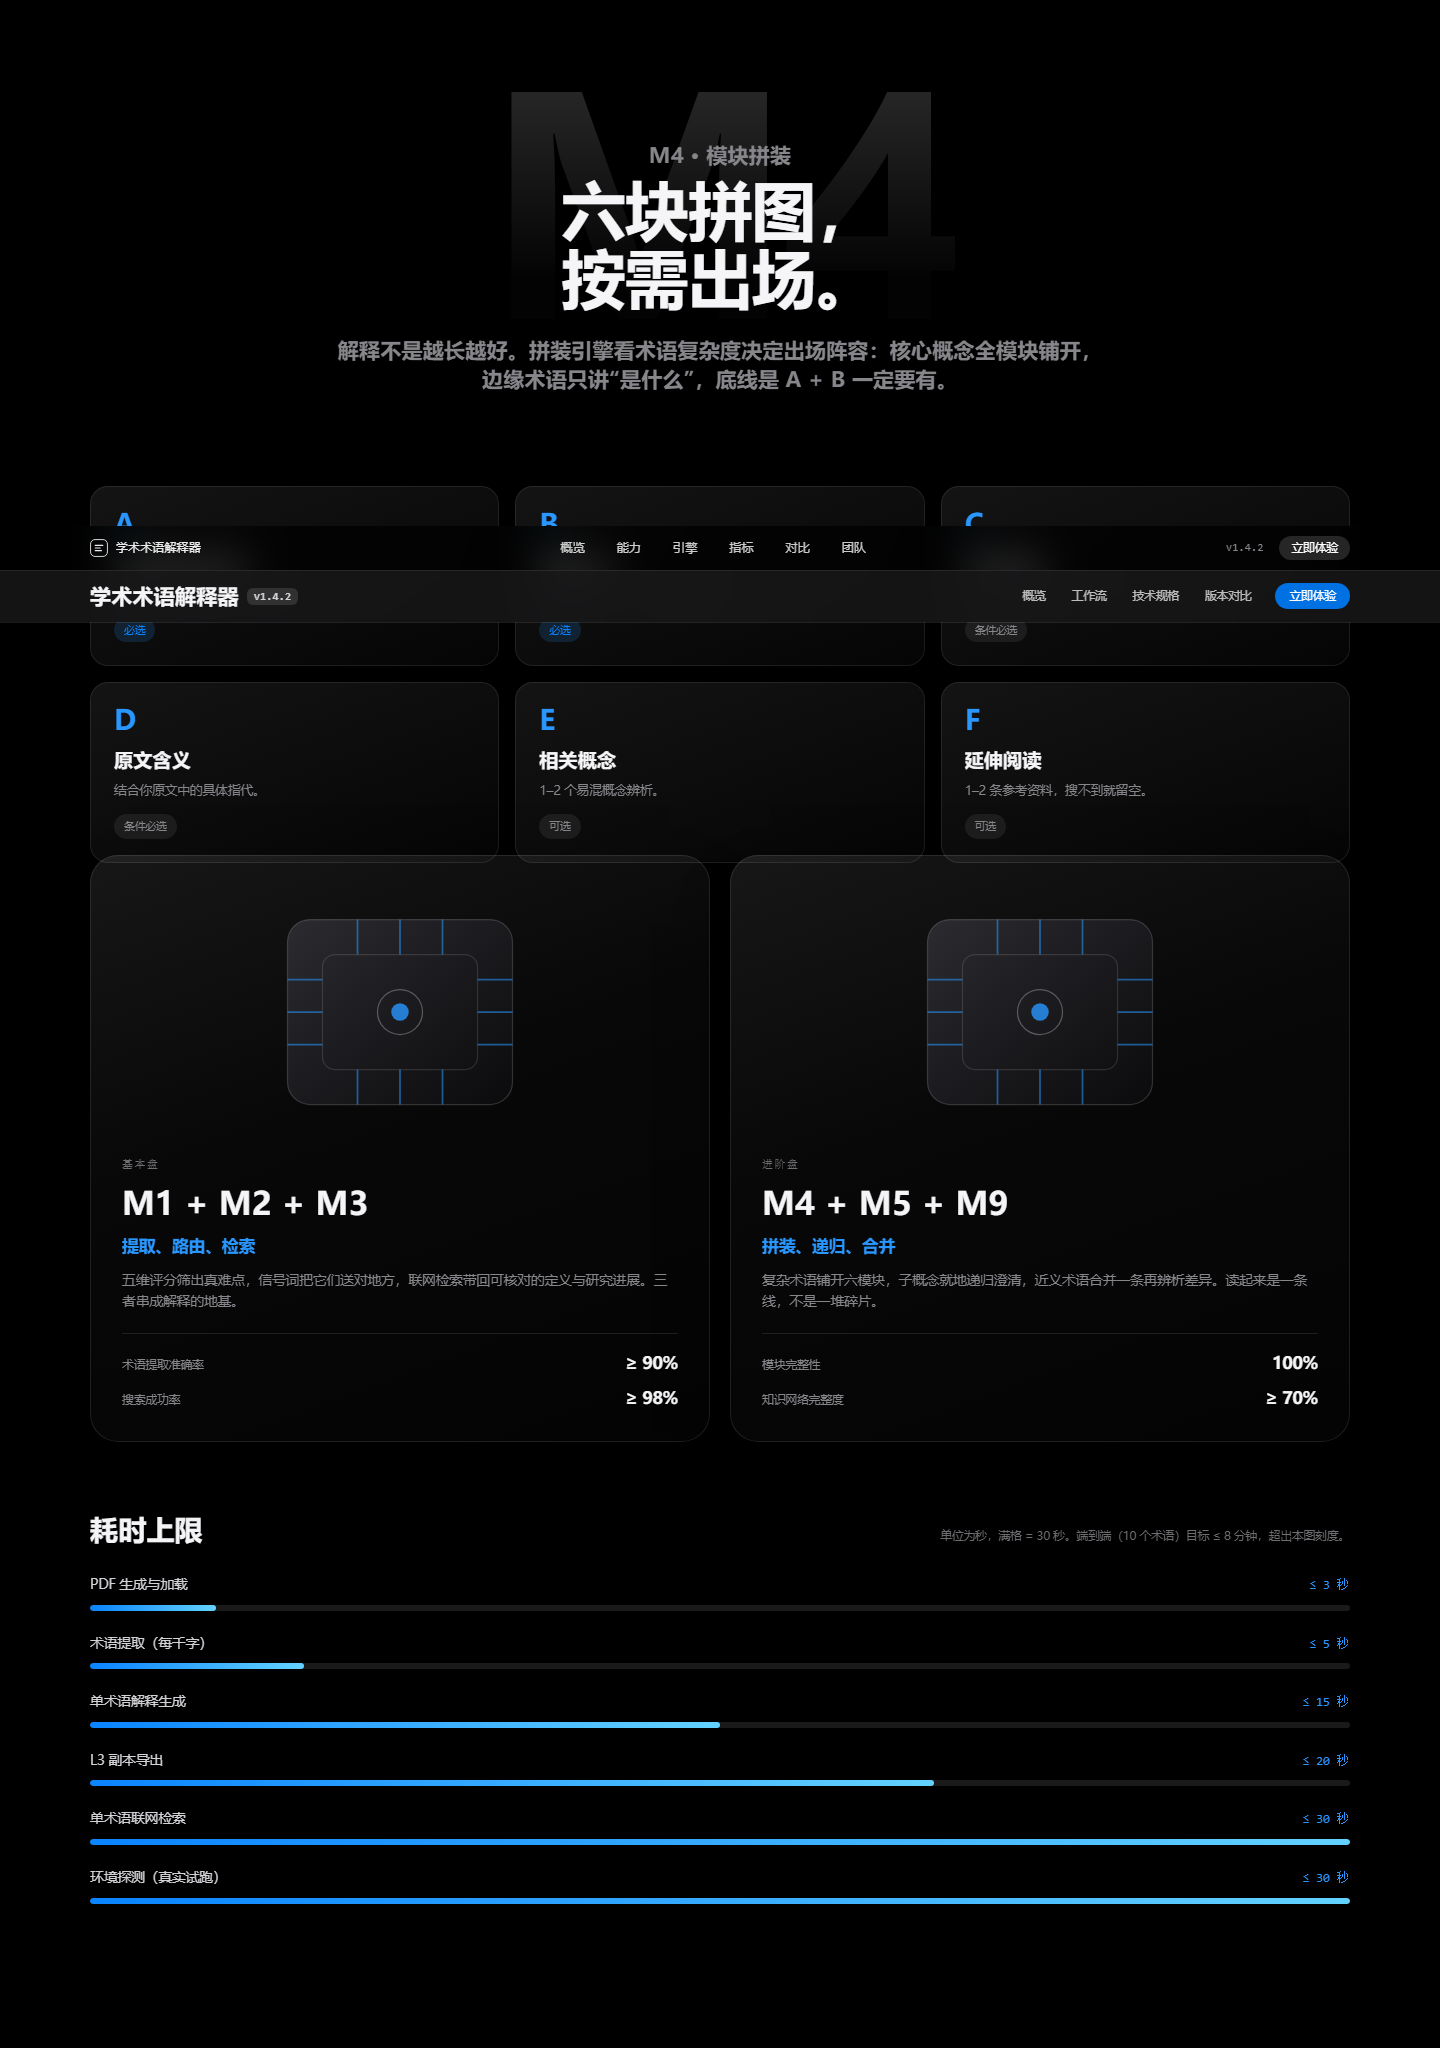
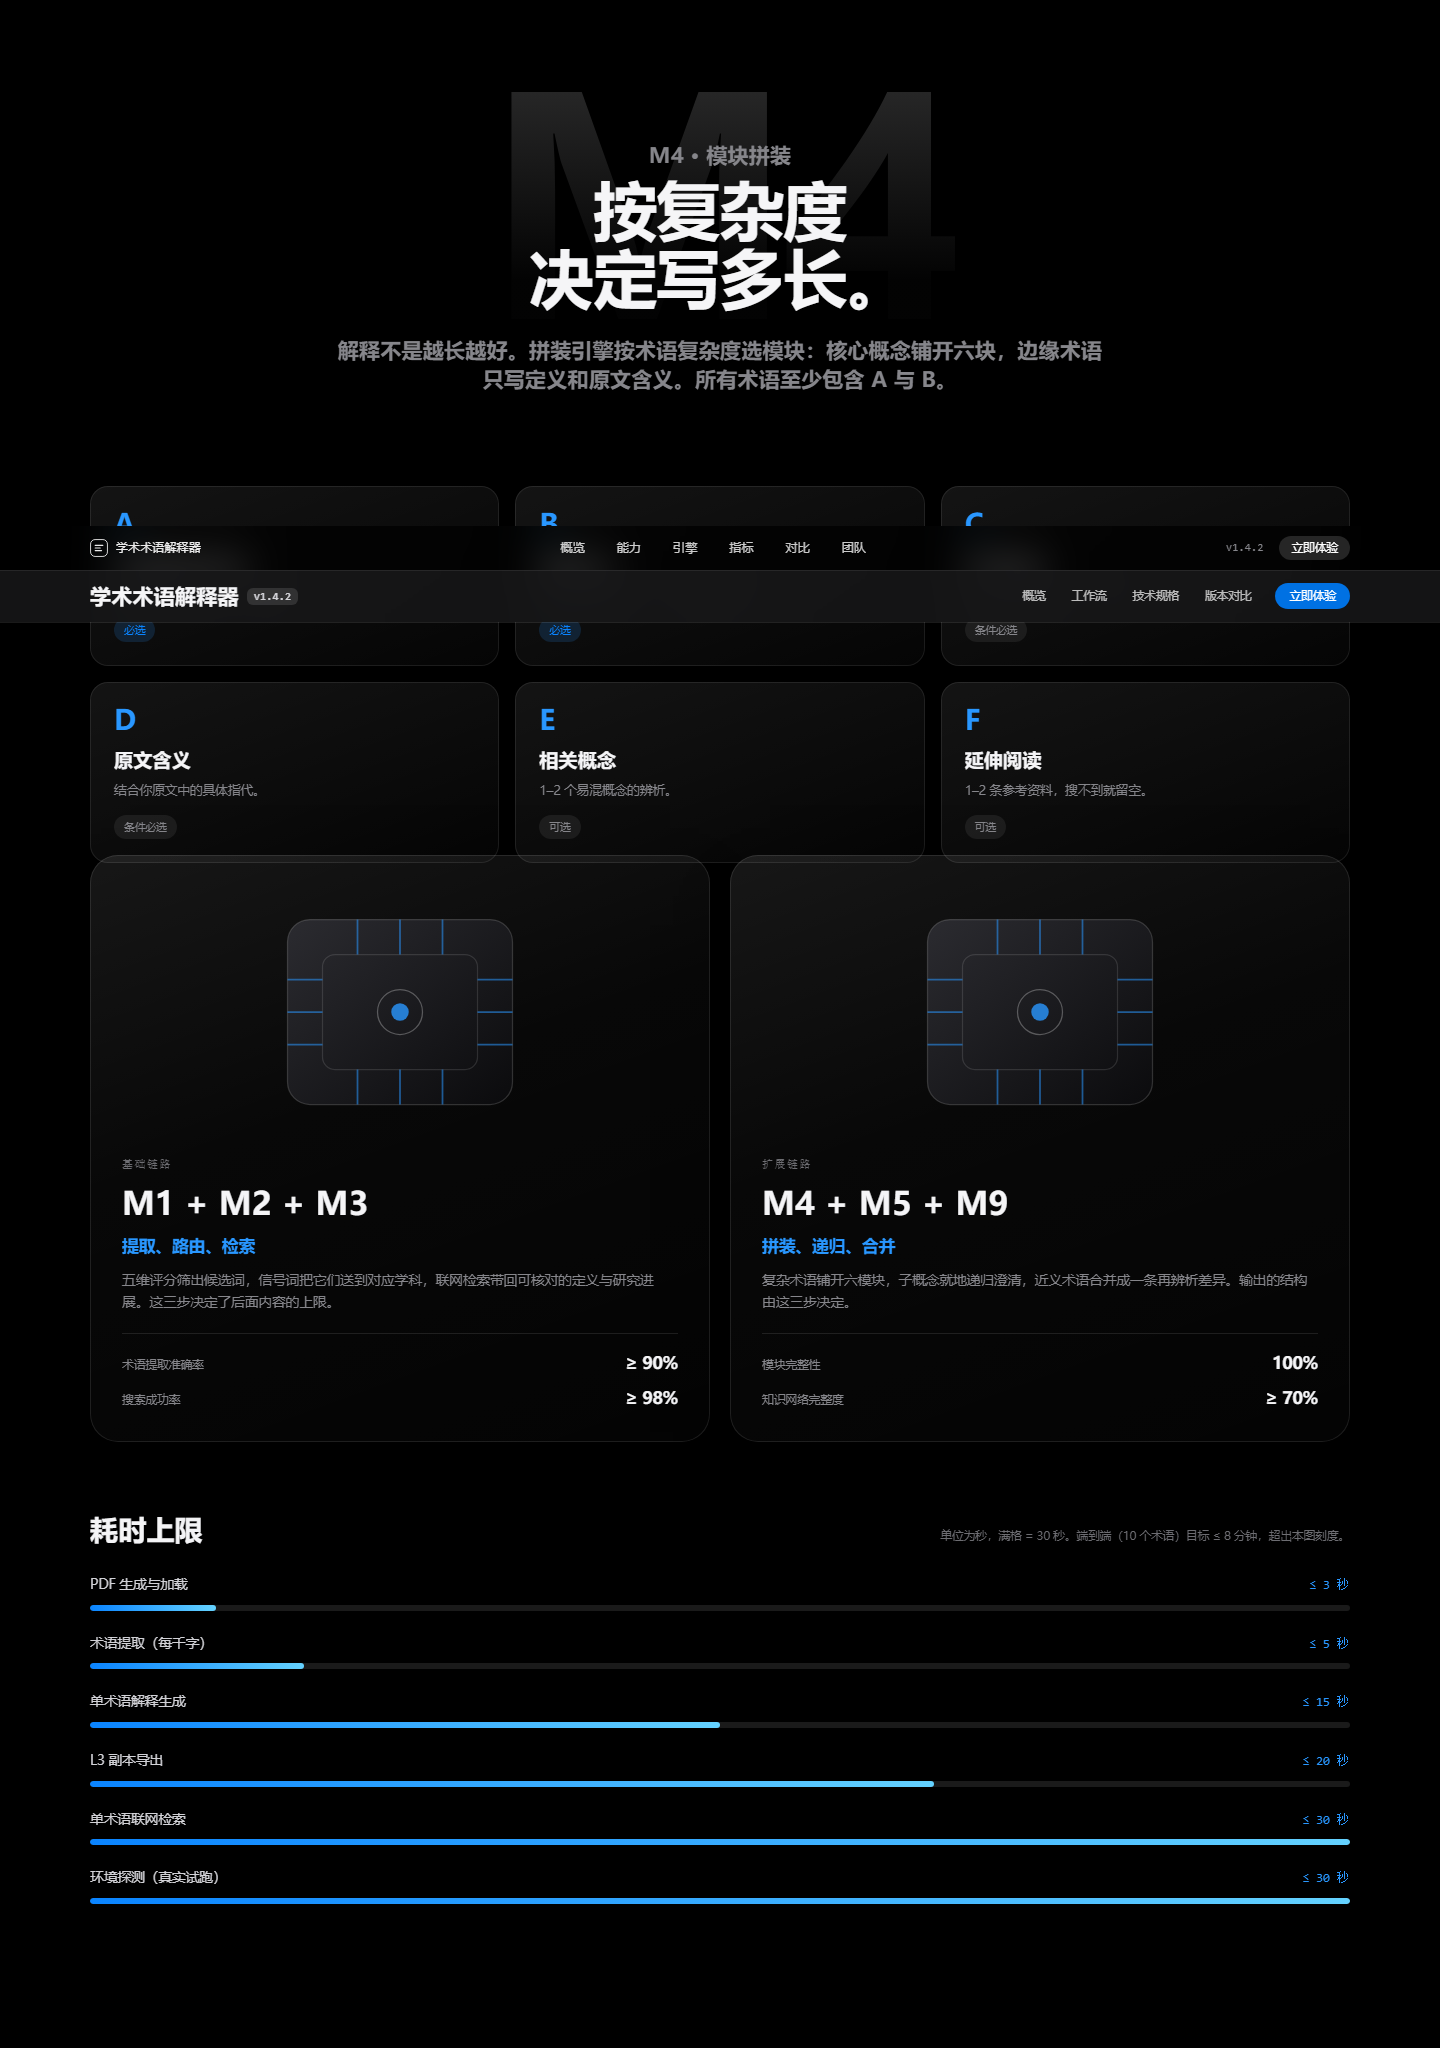
docs: 更新 README 与页面预览截图

diff --git a/README.md b/README.md
@@ -113,39 +113,25 @@ web/
 
 ## 内容来源
 
-- 文案指标来自《学术术语解释器 · 产品技术文档 v2.0》与《作品演示2.pptx》
+- 文案与指标来自《学术术语解释器 · 产品技术文档 v2.0》与《作品演示2.pptx》
 - 所有数字均为文档中定义的**目标值**（FI / PI / QI 编号），非实测结果，页脚已注明
 - 页面不含 Apple 商标、产品图或文案；版式参考仅用于竞赛展示
+- 本项目**未开源**，页面也不作任何开源或免费分发的表述
 
 ---
 
 ## 已知取舍
 
 1. **字体**：参考页使用系统字体 SF Pro / PingFang SC。本站沿用同样字体栈，在 macOS 上即为原字体；Windows 回退到 Microsoft YaHei UI，字宽略有差异但字号与字重完全一致。
-2. **图片资源**：作品素材只有四张浅色主题的架构图，与深色版式冲突，因此所有可视化（产品视窗、评分卡、歧义消解、搜索阶梯、递归树、降级链、基准条形图）均以 HTML/CSS/SVG 重绘，未使用位图。
+2. **图片资源**：作品素材只有四张浅色主题的架构图，与深色版式冲突，因此所有可视化（产品视窗、能力卡片图形、评分卡、歧义消解、搜索阶梯、递归树、降级链、基准条形图）均以 HTML/CSS/SVG 重绘，未使用位图。
 3. **购物流程**：导航与按钮指向页内锚点，不涉及真实下单/支付。
 
 ---
 
 ## 提交记录
 
-按实现步骤分 16 次提交，格式 `feat:` / `fix:`，可用 `git log --oneline` 查看：
+按实现步骤分多次提交，格式 `feat:` / `fix:` / `docs:`。完整历史见：
 
-```
-feat: 初始化 Vue3 + TS + Vite + GSAP 工程骨架
-feat: 建立仿参考页的设计令牌与全局排版样式
-feat: 集中管理全站文案与产品数据
-feat: 注册 GSAP 滚动动效与粘性场景组合式函数
-feat: 全局导航、局部导航与页面骨架
-feat: 局部导航随浅色区块切换主题，并补充页脚
-feat: Hero 首屏、产品视窗场景与字标组件
-feat: 先刷重点横向卡片画廊
-feat: 设计区块的粘性产品视窗
-feat: 术语提取与学科路由区块
-feat: 联网搜索与模块拼装区块
-feat: 递归澄清与输出降级链区块
-feat: 专业场景画廊与指标区块
-feat: 学科接口与可信性区块
-feat: 版本对比、参赛团队、价值观与结尾索引区块
-feat: 提交实施规划文档
+```bash
+git log --oneline
 ```
